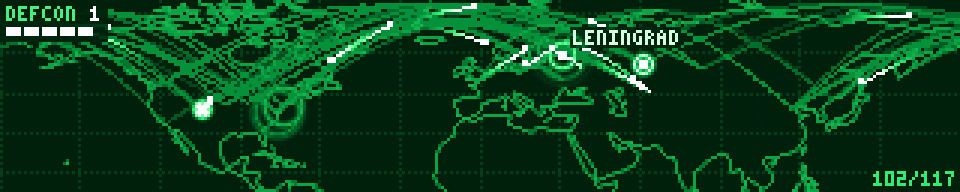
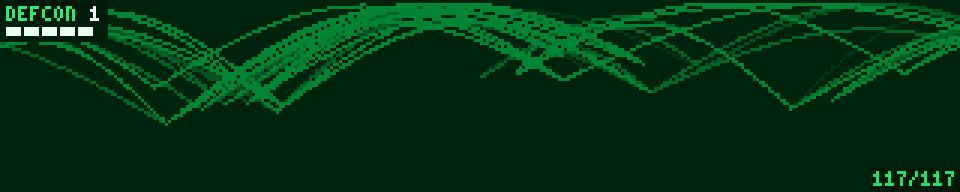
defcon: type the closing line out rather than switching it on
The line appearing all at once read as a caption laid over the demo. Typed a
character at a time behind a block caret it reads as the machine at the other
end composing it, which is what the film has Joshua doing and is the whole
point of the ending.

Every keystroke's arrival time is baked in build() and render() binary
searches it, so this stays a pure function of t like the rest of the file.
The rhythm is a machine's -- 7.5 characters a second, wobbled five percent,
because a dead-constant interval reads as a progress bar -- with a beat of
bare caret before the first letter, a carriage return at the line break, and
a pause before the last word. The caret is solid while typing and blinks only
once the line is finished; one that blinks through the typing reads as a
fault.

The whole performance is capped at 55% of the message phase and every
interval scales down uniformly if it will not fit, so a long --message or a
short --cycle types faster instead of being cut off mid-word. The message
phase went from 0.18 to 0.22 of the cycle, taken from the war, which has the
seconds to spare and is the most expensive part of the cycle besides.

Still the cheapest stretch in the demo: p95 0.086 ms through the typing
against 0.197 in the exchange.

Changed region(s): [[0.0, 0.0, 1.0, 1.0], [0.0, 0.0312, 0.0938, 0.125], [0.9062, 0.9062, 0.9375, 0.9688]]

diff --git a/demos/defcon.py b/demos/defcon.py
@@ -66,15 +66,39 @@ Then four phases, as fractions of `--cycle` rather than fixed tails, so that
 `--cycle 30` is a shorter version of the same film and not a war with the
 ending cut off:
 
-  * 0.00-0.74  the exchange, accelerating the whole way; the last launch goes
+  * 0.00-0.70  the exchange, accelerating the whole way; the last launch goes
                up about one flight time before the end, so impacts keep
                arriving to the last moment
-  * 0.74-0.78  the board whites out on the final wave and goes black. The
+  * 0.70-0.74  the board whites out on the final wave and goes black. The
                darkness is the point: a beat of nothing is what makes the
                next thing land
-  * 0.78-0.96  THE ONLY WINNING MOVE IS NOT TO PLAY, held long enough to read
+  * 0.74-0.96  THE ONLY WINNING MOVE IS NOT TO PLAY, typed out a character at
+               a time and then held long enough to read
   * 0.96-1.00  the map fades back up at DEFCON 5, drawing the tracks that are
                already in the air at t=0 so the loop does not seam
+
+**The closing line types itself.** In the film the machine prints its side of
+the conversation to a terminal, so the line arrives as WOPR writing it rather
+than as a caption being switched on: characters at about seven and a half a
+second, a block caret at the write position, a beat at the line break where a
+terminal would return the carriage, and a longer one before the last word. The
+interval is a machine's — one rate, wobbled by five per cent, because
+dead-constant timing at this size reads as a progress bar filling and anything
+more uneven reads as a person at the keyboard, which is the wrong character.
+The caret is solid while it writes and blinks only once the line is finished; a
+caret that blinks *through* the typing looks like a fault. Every keystroke's
+arrival time is drawn in `build()` and the frame binary-searches it, for the
+same reason the war's schedule is baked: `render()` must be a pure function of
+`t`.
+
+Typing costs time that used to be reading time, so the message phase took four
+points of the cycle off the war — the cheapest place there is to take them
+from, since the exchange is one continuous ramp parameterised by its own
+progress and a slightly shorter one is the same escalation very slightly
+steeper. The whole performance is then capped at 55 per cent of the phase, so
+better than half of it is always the finished line sitting still. A long
+`--message`, or `--cycle 30`, types faster rather than running past the end of
+the phase: being cut off mid-word is the one failure the ending cannot have.
 
 `--message ""` turns the closing line off, and then the darkness shrinks to a
 punctuation mark and the exchange takes the time back. Only the second half of
@@ -244,7 +268,14 @@ def _wrap(words, cols):
 
 
 def _message_mask(text, W, H):
-    """A whole-panel mask for the closing line, or None if there isn't one.
+    """The closing line: a whole-panel mask plus its layout, or None.
+
+    Returns `(mask, scale, rows)`, where rows is `[(text, y0, x0), ...]` — one
+    entry a wrapped line, giving the top row and left column the line was drawn
+    at. The typing needs the geometry as well as the pixels: it reveals the
+    mask a glyph cell at a time and puts a caret at the write position, and
+    both of those are `x0 + j * 4 * scale` arithmetic that only the layout
+    knows.
 
     Same 3x5 font as the readouts, scaled by an integer factor with
     np.repeat — nearest-neighbour, so it stays a pixel font instead of turning
@@ -282,6 +313,7 @@ def _message_mask(text, W, H):
 
     lines, scale, gap, height = chosen
     mask = np.zeros((H, W), f32)
+    rows = []
     y = (H - height) // 2
     for line in lines:
         m = _text(line)
@@ -289,8 +321,9 @@ def _message_mask(text, W, H):
             m = np.repeat(np.repeat(m, scale, axis=0), scale, axis=1)
         x = (W - m.shape[1]) // 2
         mask[y:y + m.shape[0], x:x + m.shape[1]] = m
+        rows.append((line, y, x))
         y += 5 * scale + gap
-    return mask
+    return mask, scale, rows
 
 
 # --------------------------------------------------------------------------
@@ -348,6 +381,18 @@ BLOOM_R = 16                             # bloom window half-size, px
 RAMP = 48.0
 
 MESSAGE = "THE ONLY WINNING MOVE IS NOT TO PLAY"
+
+# The closing line types itself out. Characters a second at the default cycle;
+# slow enough to read along with, and the machine at the other end is printing
+# to a terminal rather than racing. TYPE_SHARE caps the whole performance --
+# lead-in, keystrokes and pauses -- at a fraction of the message phase, so what
+# is left is always time to sit and read the finished line. A longer --message
+# or a shorter --cycle scales the rate to fit rather than running past the end
+# of the phase and getting cut off mid-word.
+TYPE_CPS = 7.5
+TYPE_SHARE = 0.55
+TYPE_JITTER = 0.05                       # +/- this fraction of the interval
+CURSOR_HZ = 2.0                          # blink rate once the line is done
 
 
 def add_arguments(ap):
@@ -490,10 +535,17 @@ def build(args):
     # Phases are fractions of the cycle rather than fixed-length tails, so a
     # 30 s slot gets a shorter war *and* a shorter blackout and a shorter
     # message, instead of a war with the ending sheared off it.
-    msg_mask = _message_mask(args.message, W, H)
+    laid_out = _message_mask(args.message, W, H)
+    msg_mask = None if laid_out is None else laid_out[0]
     if msg_mask is not None:
-        f_war, f_dark = 0.74, 0.04
-        msg_len = cycle * 0.18
+        # The message phase is a little wider than it was when the line simply
+        # switched on, because typing it costs time that used to be reading
+        # time. The four points come out of the war, which is the cheapest
+        # place to take them from: the exchange is one continuous ramp
+        # parameterised by its own progress, so a shorter one is the same
+        # escalation slightly steeper and nothing in it visibly moves.
+        f_war, f_dark = 0.70, 0.04
+        msg_len = cycle * 0.22
     else:
         # Nothing to hold on a black board, so the darkness is only long
         # enough to punctuate the reset and the exchange takes the rest.
@@ -664,6 +716,64 @@ def build(args):
         # as well not have.
         steps.append((max(at, steps[-1][0] + cycle * 0.02), level))
 
+    # ---- the closing line, typed ----------------------------------------
+    #
+    # Baked for the same reason the war is: render() has to be a pure function
+    # of t, so every character's arrival time is drawn here and the frame does
+    # a binary search rather than advancing a state machine. `type_t` holds the
+    # time each state begins, `type_row`/`type_n` say which line is being
+    # written and how much of it is on the board.
+    #
+    # The rhythm is a machine's, not a person's: one interval, wobbled by a few
+    # per cent. That wobble is the whole difference between a caret writing and
+    # a progress bar filling -- dead-constant timing at this size reads as a
+    # wipe -- and any more of it would be a human at the keyboard, which is the
+    # wrong character. The two pauses are punctuation: a beat at the line break
+    # where a terminal would return the carriage, and a longer one before the
+    # last word, because "NOT TO PLAY" is the sentence turning over.
+    type_t = None
+    if msg_mask is not None:
+        mscale, rows = laid_out[1], laid_out[2]
+        pitch, cell = 4 * mscale, 3 * mscale
+        row_geom = [(y0, y0 + 5 * mscale, x0, len(txt))
+                    for txt, y0, x0 in rows]
+
+        # Where the last word starts, so it can be given its beat -- but only
+        # when it follows a space on its own line, since a word that begins a
+        # line has had the line break's pause already.
+        last_row = len(rows) - 1
+        last_txt = rows[last_row][0]
+        gap_at = last_txt.rfind(" ")
+
+        base = 1.0 / TYPE_CPS
+        times, at_row, at_n = [], [], []
+        clock = base * 3.0               # a beat of bare caret before the first
+        for r, (txt, _y0, _x0) in enumerate(rows):
+            for k in range(len(txt) + 1):
+                times.append(clock)
+                at_row.append(r)
+                at_n.append(k)
+                if k == len(txt):
+                    break
+                step = base * (1.0 + TYPE_JITTER * (2.0 * rng.random() - 1.0))
+                if r == last_row and gap_at >= 0 and k == gap_at + 1:
+                    step += base * 4.0
+                clock += step
+            if r < last_row:
+                clock += base * 5.0      # the carriage return
+        # Scale the whole performance to fit its share of the phase. A long
+        # --message or a short --cycle types faster rather than being cut off
+        # in the middle of a word, which is the one failure this cannot have.
+        span = max(1e-6, times[-1] + base)
+        budget = msg_len * TYPE_SHARE
+        if span > budget:
+            k = budget / span
+            times = [v * k for v in times]
+        type_t = np.array(times, np.float64)
+        type_row = np.array(at_row, np.int32)
+        type_n = np.array(at_n, np.int32)
+        type_end = float(type_t[-1])
+
     # ---- per-frame buffers ----------------------------------------------
     acc = np.zeros((H, W), f32)
     accf = acc.reshape(-1)
@@ -776,12 +886,42 @@ def build(args):
                 # line lands because of the seconds of black in front of it.
                 acc.fill(0.0)
             elif p < msg_off:
-                k = (p - msg_at) / (msg_off - msg_at)
-                # Up fast, hold, out a little slower. The hold is nearly all
-                # of it -- the point of the phase is that it can be read, not
-                # that it animates.
-                g = min(1.0, k / 0.07) * min(1.0, (1.0 - k) / 0.16)
-                np.multiply(msg_mask, f32(1.35 * g), out=acc)
+                tt = p - msg_at
+                k = tt / (msg_off - msg_at)
+                # No fade in: the caret arrives out of the black already lit,
+                # which is what a terminal does. Only the tail fades, and only
+                # so the map has something to come up out of.
+                g = min(1.0, (1.0 - k) / 0.12)
+                acc.fill(0.0)
+                # Where the typing has got to. One searchsorted over a few
+                # dozen floats, then at most three slice copies out of the
+                # baked mask -- the ending stays the cheapest part of the
+                # cycle, which is the point of it being at the end.
+                s = int(np.searchsorted(type_t, tt, side="right")) - 1
+                if s < 0:
+                    s = 0
+                cur, n = int(type_row[s]), int(type_n[s])
+                for r in range(cur + 1):
+                    y0, y1, x0, ncols = row_geom[r]
+                    shown = ncols if r < cur else n
+                    if shown <= 0:
+                        continue
+                    x1 = x0 + (shown - 1) * pitch + cell
+                    np.multiply(msg_mask[y0:y1, x0:x1], f32(1.35 * g),
+                                out=acc[y0:y1, x0:x1])
+                # The caret: solid while it is writing, blinking once the line
+                # is finished. A caret that blinks *through* the typing reads
+                # as a fault rather than as a caret.
+                done = tt >= type_end
+                if not done or (tt * CURSOR_HZ) % 1.0 < 0.55:
+                    y0, y1, x0, _ncols = row_geom[cur]
+                    # A line that fills the panel leaves less than a cell of
+                    # margin after its last glyph, so the caret is pushed back
+                    # on rather than clipped: half a block at the edge reads as
+                    # the text having been cut off, which is the one thing this
+                    # phase must never look like.
+                    cx = min(x0 + n * pitch, W - cell)
+                    acc[y0:y1, cx:cx + cell] = f32(1.35 * g)
             else:
                 # Back to a quiet board. The tracks that will be mid-flight at
                 # t=0 are drawn here at negative time, so the loop is a fade
